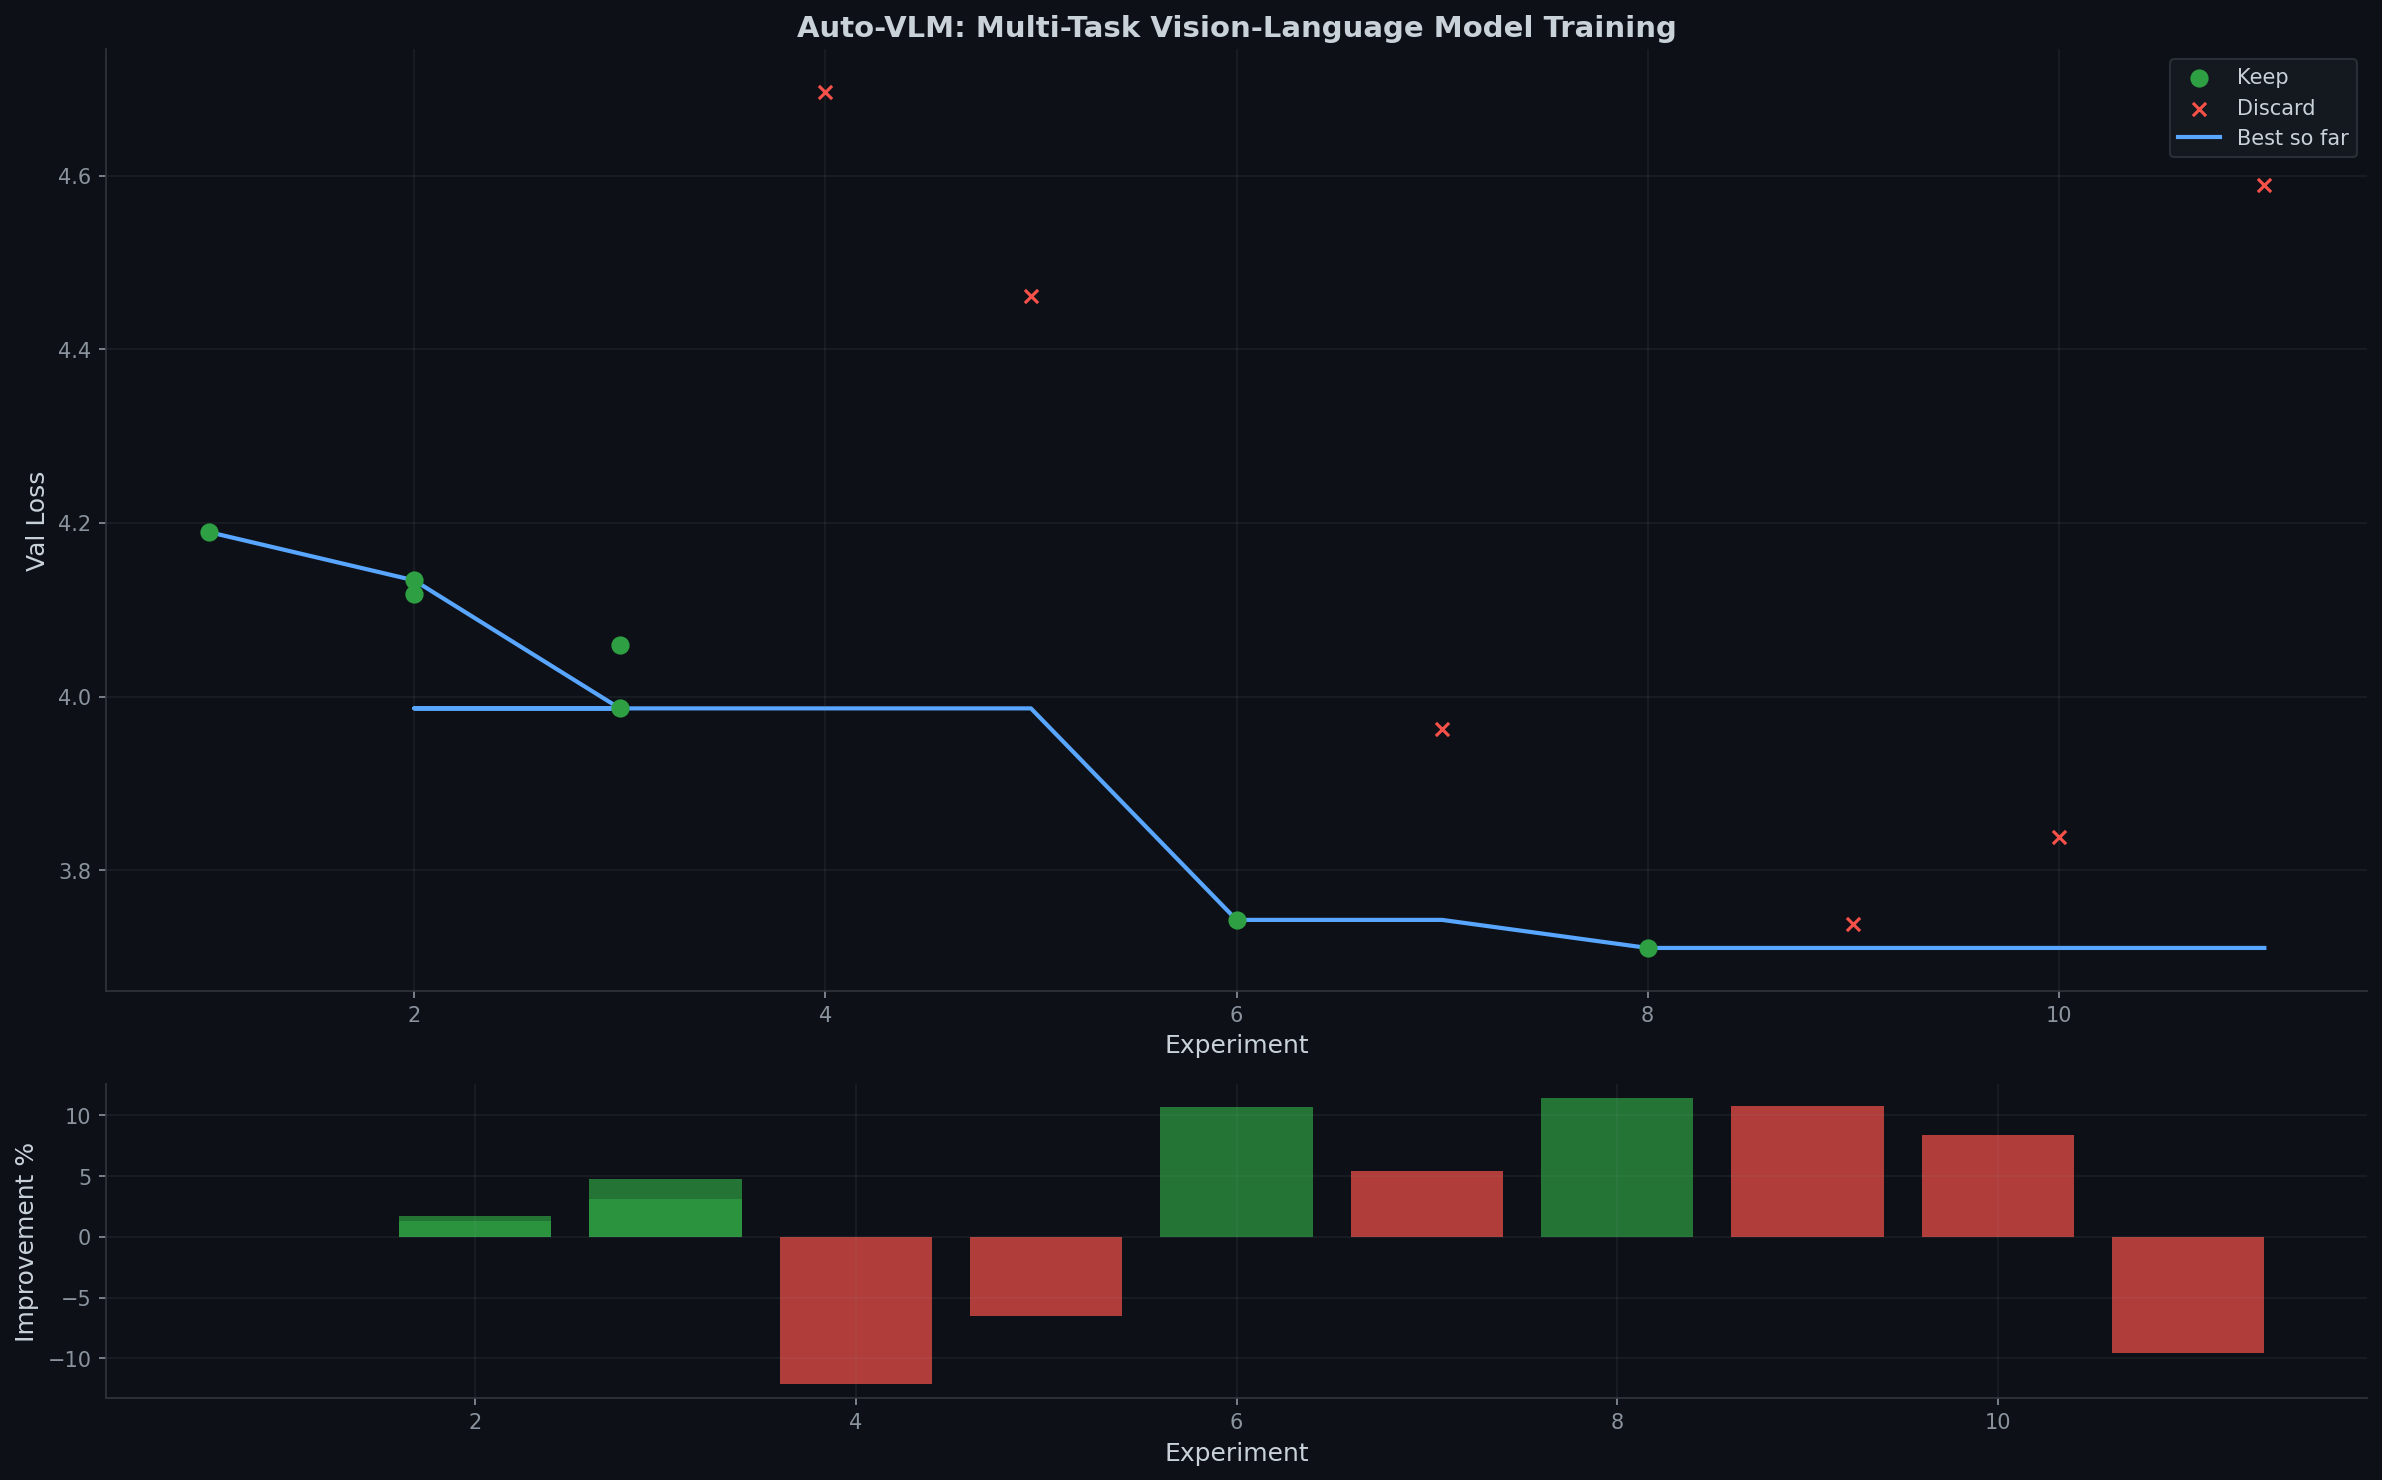
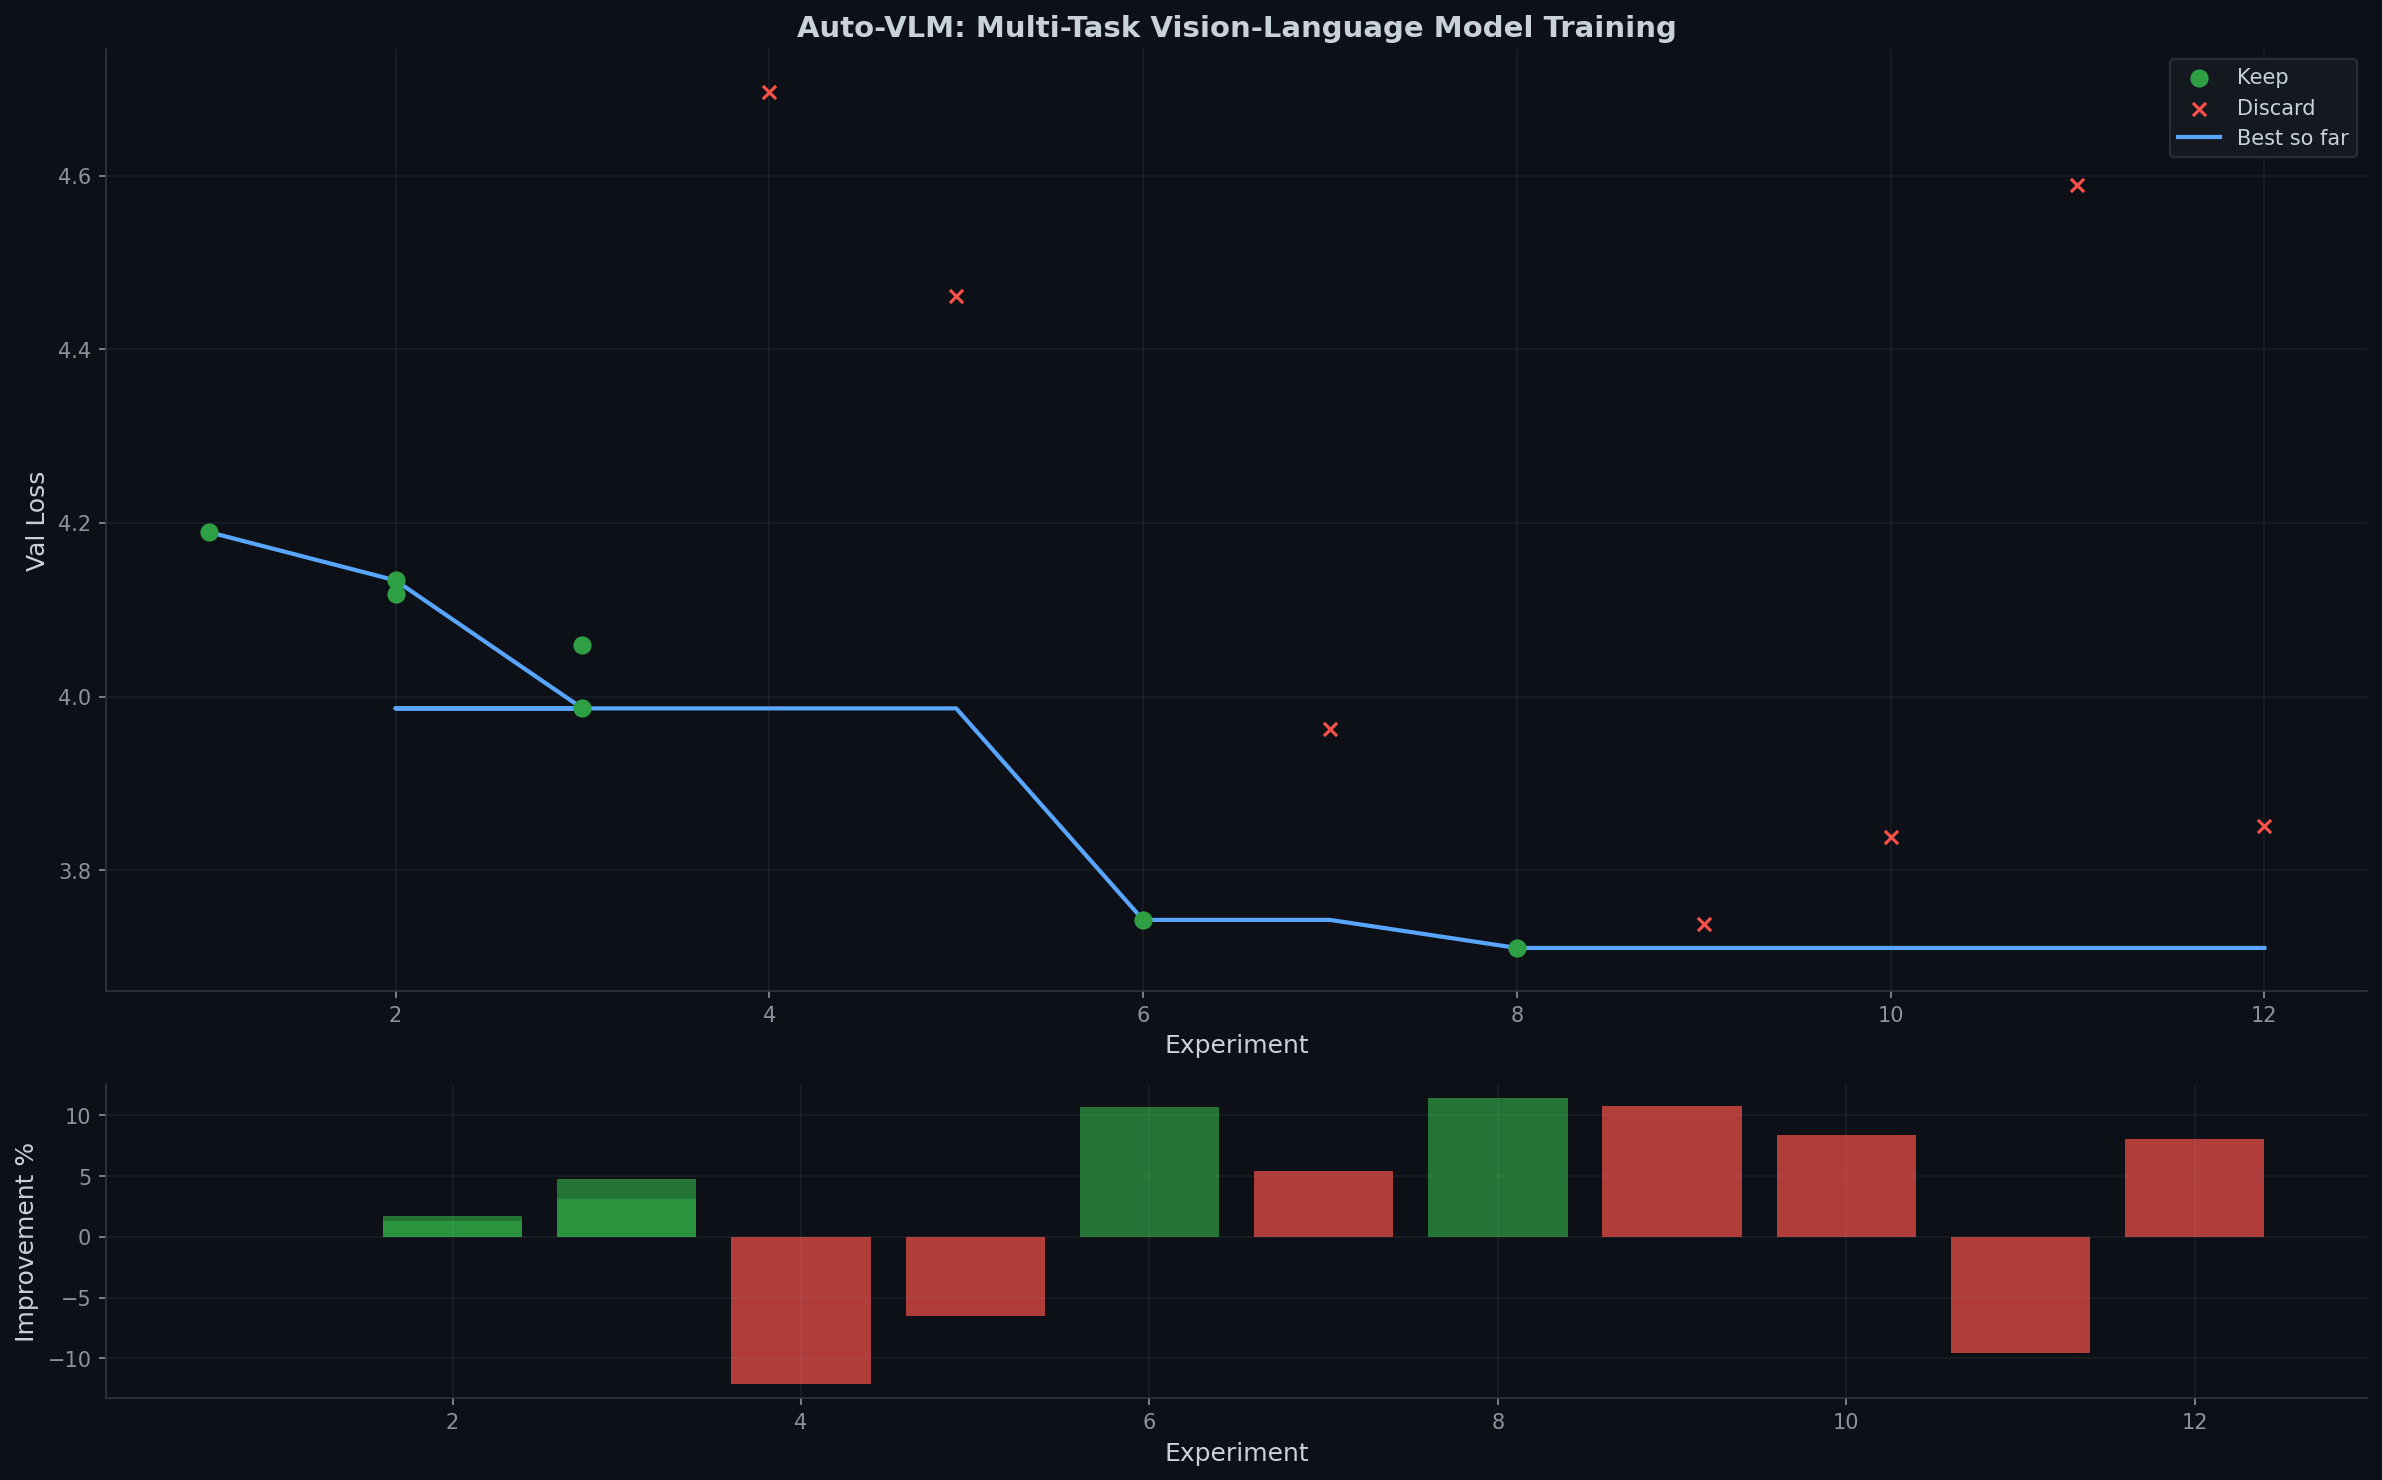
exp 012: patch_size=16 DISCARD (val=3.8509)

diff --git a/index.html b/index.html
@@ -136,7 +136,7 @@
     </div>
 
     <div class="stats">
-        <div class="stat-card"><div class="label">Experiments</div><div class="value" id="total-exp">13</div></div>
+        <div class="stat-card"><div class="label">Experiments</div><div class="value" id="total-exp">14</div></div>
         <div class="stat-card"><div class="label">Kept</div><div class="value green" id="kept-exp">7</div></div>
         <div class="stat-card"><div class="label">Best Val Loss</div><div class="value" id="best-loss">3.7105</div></div>
         <div class="stat-card"><div class="label">Improvement</div><div class="value yellow" id="improvement">11.4%</div></div>
